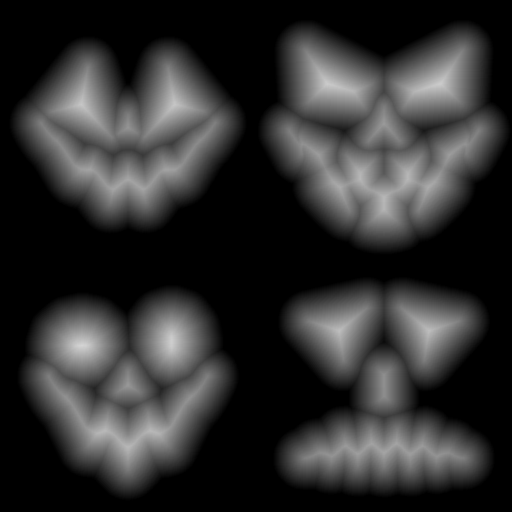
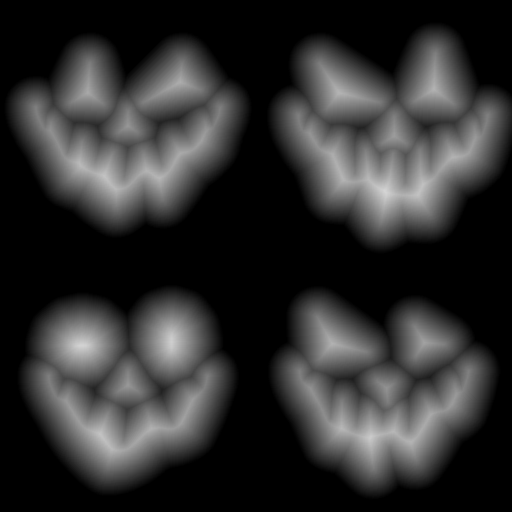
Chain 34: fall's base faces made, notes of 16:27 to 16:53 UTC
The whole vitest read green (954 passed, 4 skipped), M3 fall-rest 0.9354 at review, fall's two draft stills changed and six equal.

diff --git a/kit/PROGRESS.md b/kit/PROGRESS.md
@@ -2913,3 +2913,7 @@ One entry per task: when it started, what it did, where it stopped.
 - 16:14 UTC. Decisions, open items and rulings since the note of 15:23 UTC. Decision 196: for the tree's passes the miniature's part of M3 summer-rest has a floor of 0.97 (told to its builder before this note). Decision 198: a fall under 0.001 in M3's total reads as equal when the part of the picture the list worked on rose by its builder's numbers. Open item 255, cause found: summer landed's pale flat patches are the storm's low glow (`STORM_BLOOM` `low`, `lowLiftMm: 58`, `src/particles/draw/looks.ts` and `cardStormGlow` in `cards.ts`, brought by `f6d10323`), a card lifted 58 mm toward the eye that so lies over the base. A mend is drawn (16 lines in `cards.ts` and `shader.ts`: the low glow takes the glass's own depth on each pixel's ray) and is to be pushed to `agent/p6-air-255` after it merges origin main; asked with it: which seasons draw the glow, all eight guards, two 3840 frames at summer's landing. A lesson with it: my order of 15:21 went to `/root/summer_air`, an earlier agent, not to the owner `/root/summer_air_p6`; the earlier agent had found the cause and drawn the mend before I saw it, so it keeps this one job, the owner named the same term from the code and takes the mend with a later merge. The rule from it: the exact agent name is checked in the list before every send. Open item 256, found by summer's air builder (film B frames 1763 to 1770, births at hd 571,10 and 439,64): the lens's place law (`src/globe/lens.ts`, `lensPlace`) puts a point the limb's ray does not reach on the outline and, once reached, well inside it, so a particle is born whole in one frame near the outline; it holds for every particle kind of every season. Its owner is named when that builder's report is in. Rulings sent between 16:08 and 16:10 UTC, each after its report was read and its pictures looked at. (1) Fall's base, the cut pumpkin faces (`agent/p6-fall-base` `f213dfce`, picture faces-15 looked at again at 16:12): merged as `3320a6b4` into chain 34; below the bar in its builder's own words (the column x 1018 to 1076 at 0.67, the grooves as broad bands and as hard stripes at 3840, the hollow paler, the third gourd, the gourds free of the twigs); next the sheaf. (2) Fall's scene, tenth list (`agent/p6-fall-scene` `8ae824e6`, pictures 42, 44 and 45 looked at 16:04; its files are `assets-src/village-fall/build.mjs`, `mini/props.ts` and `mini/village.ts` only): wall, chimney, roof and pickets each nearer the approved's form; held for one proof, the fence at 3840 in motion (film B frames 2364 to 2367, main beside the list, neighbour correlation and one-frame events), because the pickets are thin new geometry; its M3 of 0.8833 against 0.8835 reads as equal under decision 198; its triangle room at high is 13,764 by its count. (3) Spring's base, ninth list (`056ed155`, pictures 33, 34 and 36 looked at 16:04, 35 not looked at): held; the lid reads as a block with square upper corners, upright sides and a flat top where the approved's is a rounded roll of moss round the glass's foot, and by its builder's count the build stands outside the approved's outline on 52,951 px against the eighth's 31,774. Tenth list ordered as its builder proposed (seat down about 2 mm, top sloped inward, M4 of shake 2 at or over 0.8957, the outline count at or under 31,774), and the dew's one line as its own commit on its own branch with a 3840 proof. (4) The shutter (`agent/p6-fine-motion` `257600b1`): its loop pictures across the change of count (`agent/p6-shutter-looks` `0f648a3a`, frames 209 to 216) looked at about 16:10: the five steps before the change are bright with motion, the two after it faint, no step at 214 to 215; merged as `cd929b5f` into chain 34. (5) Told: fall's air (Step A merged, the miniature's part 0.935 against 0.957 is inside its floor and a fall all the same, Step B goes on), summer's stone (merged, the base's part 0.854 against 0.878 is inside its floor and a fall all the same, the next push not under 0.854, the white fleck on the amber pebble, the six lowered light-table entries), summer's miniature (two places on the bank, hd 789,890 and 658,856, grass blades one pixel wide that come and go), and the new head with chain 33's guard list to every builder at work. Chain 34 started 16:11:31 on `3320a6b4` with make base-fall, texpack fall, M3 fall, M4 and M5, the counts and the whole test run; engine `504cdd1e69169a64`; compared with chain 33's list, fall's two stills should change and the other six stay. Free disk at its start 3,181 MiB against the floor of 3,072. Open item 258: room must be made before chain 35 (the workspace's old local copies of the reference takes outside the repo hold 526 MiB and were all attached long ago; agents' attachments hold 515 MiB). Not ruled yet: summer's glass (`1424cb34`), its pictures n1 to n4 not looked at. Summer's tree (`01f1f0b9`) waits for the 3840 proof; the proof's maker wrote at 16:07 that main's six frames are drawing at 104.1 s a frame and that between the two heads the drifting lights and seed puffs stand in other places inside the glass (95,665 px on frame 1990 at hd draft), so the cottage box will not be pixel-equal across heads and both heads get their own measures. Status 218 delivered with Stills 175 to 178, late against its promised 8:55 AM MT.
 
 - 16:26 UTC. Rulings on the change's item A (its report of 16:19 and 16:20 UTC with pictures A1 to A11; A2 not looked at). By my look at 3840 at the final tier, film frames 674 to 677: the dissolve of winter's base into spring's is smooth on the flank (A1, A3), the rim is one soft arc (A4), the lamps are two soft discs (A7), the pool is smooth (A6); no beads and no bands. `agent/p6-change` `9aa6e81b` goes to main as it stands in chain 35 (order change-8, ruling 1). Logged below the bar, in its builder's words: winter's ferns near the foot torn into flat streaks at 668 (A8); summer's heap torn at 2108; the table's petals' grainy fringes at 680 (A11), to be mended with the ferns under a control at all four arrivals. Not proven: short white dashes inside the glass under the rim (A4, read by its builder as bright flakes); the foot's rope as slanted dashes at speed (A5). Three white specks on the table right of the foot, the same place in 674 to 677 (A6): its builder says what they are at its next draw of that region. **Open item 259**: spring's stipple. Single pixel dots under the lit rims of spring's two small mushrooms in every fast frame that shows spring's base (674 to 677, 1350, 1395), on main as on the change's head (A9, A10); by the builder's controls and its sample readings a very hot highlight narrower than the step between samples. Order `out/work/orders/p6/spring-glint-1.txt` to `spring_drops_mender` on `agent/p6-spring-glint`: the mend in the highlight's own term, never narrower than about 1.5 px on the screen, not in the accumulator and not by more samples; bars at 3840 at the final tier. Owed by me: the ruling on fall's bats let in from frame 2113. The air's item 255 (its mail of 16:23 UTC): mend `74813f38`, local; summer-rest stays `5705376d89d3f8bc`, summer-landed moves to `6754221096e57872`; the patches gone in its two 3840 frames (1440, 1441) by its own look, not seen by me; its push and report follow its whole test run. 15 agents at work before the two sends, 16 with the order (the limit).
+
+- 16:53 UTC. Rulings 16:27 to 16:31 UTC, written during chain 34's test run and logged after it. Decision 199: fall's bats from film frame 2113 are the engine's law, not the change's lines: each particle turns into the new season's kind between 0.5 and 0.86 of the swap window, fading over 0.14 to either side (`src/particles/engine/engine.ts`, `SWAP_FROM`, `SWAP_TO`, `SWAP_HALF`); nothing changes there; whether the first bats read wrong over summer's miniature is judged from a sheet of frames 2111 to 2116 asked of the change's builder with its heap proof. The tree's 3840 motion proof (motion_renderer_e, 16:28 UTC, `agent/p6-tree-proof-looks` `c1e61e82`, six frames 1988 to 1993 at the final tier, main `6d459061` beside `agent/p6-summer-tree` `01f1f0b9`), read and its three pictures looked at 16:29 to 16:31: one frame events in the crown's box (a) 0.050 percent against main's 0.091, steps 3.235 against 3.288; in the pad's box (b) 0.062 against 0.019 and steps 3.711 against 2.771, over main's, lying by the renderer's counts on the seed puffs in front of the pad (lit edge pixels with events 2 px on each head over four frames; crown pixels with events 52 to 68 a frame against main's 66 to 89); the control box (c) not equal, 0.048 against 0.042, because the tree's solid is part of the particles' collider (`src/seasons/summer/miniature.ts`, read in source by the renderer, not tested by a run), so my bar of an equal control box could not be met and was wrong. By my look the bead band stands still in frames 1990 and 1991. `01f1f0b9` goes to main in chain 35 with make tree-summer and texpack summer; both summer guards and M4 and M5 of shakes 2 and 3 will read new with it. Summer's glass `1424cb34` (the work in `fab7d881`, `glass.ts` alone): pictures k2-1 to k2-4 and n1 to n4 looked at 16:28 to 16:30; the flame at rest reads as separate dashes with a blunt straight foot against the approved's one body with a fibrous fringe and a soft foot, by my eye nearer the approved than main's flat wedge; the glint and the upper bands read right in form; its numbers asked again (they were not in my notes), the lean is to merge if they hold. 15 agents at work at 16:31. Status 219 was delivered about 16:32 UTC. Correction, 16:35 UTC: summer's glass `1424cb34` had been ruled by me at 15:59 (held for the flame's square foot at 3840, stronger rays ordered for the star at 3840), which my notes had lost; my 16:31 message to its builder contradicted that on the star and on the merge. Told its builder at 16:35 that the 15:59 ruling stands whole and that the mistake is mine. Its builder is on that pass (local `50f6d862`, `1424cb34` merged with `0fda3658`, unpushed); its picture p1 looked at: the working tree's flame is one body now; what remains in form is the even comb of its inner edge, its narrow body and the brown patch under the foot. On `1424cb34` by its builder: M3 summer-rest 0.8775 at review on the old base (base 0.878, miniature 1.007), the whole vitest 948 passed and 8 skipped, summer's two guards moved by the glass, M4 and M5 not read. The rule from it: a ruling sent is written into `out/work/notes/next.md` in the same step as the send. The air's item 255, report of 16:37 UTC read: pushed `agent/p6-air-255` `74813f38` (one commit on `0fda3658`, 16 lines added in `src/particles/draw/cards.ts` and `shader.ts`: the low glow's depth is the glass's own on each pixel's ray, none past the ball's outline), looks `agent/p6-air-255-looks` `33ce6fb3`, not yet fetched. By its builder: summer alone draws the glow; seven guards equal, summer-landed moves from `c449594e8801723c` to `6754221096e57872`; the finder's boxes at hero hd landed draft, left and right: main 152,127,97 and 84,88,85, the mend 135,109,81 and 56,64,69, without the air 133,107,80 and 53,62,67; 13,054 pixels change, all in x 757 to 1200, y 700 to 839; film B frames 1440 and 1441 at 3840 draft, the patches gone in both by its look; M4 and M5 at draft: shake 2 0.8957 and 1, shake 3 0.9567 and 0.9845; tsc clean, the whole vitest 948 passed and 8 skipped in 289 s, strict passes on summer-rest and summer-shake. What it names plainly: (a) the mend writes the depth in the particles' fragment program, so on a graphics card every particle loses the early depth reject, a cost it cannot measure under the software renderer; (b) a few dark tufts at the ground's front edge (hd x 916 to 1000, y 700 to 709, 230 pixels) are now lit like their neighbours; (c) the base's upper face now takes no light from the ball, so the approved's pale there is the base's to carry; (d) not from the mend: at the close camera a white round patch with a hard edge stands behind the lamp post (about x 560 to 830, y 250 to 420 of 1200), in main and the mend alike. Ruled 16:37: `74813f38` goes into chain 35 once its four pictures are looked at; on (a) asked whether the glow can have its own program variant so that it alone writes depth (a second commit with the proof that the picture does not move), else the split is opened as its own item; (b) ruled when seen. **Open item 260**: the white round patch behind the lamp post at summer's close camera, owner to be named. Spring's base, tenth list, its notice of 16:36 UTC: two of my bars cannot both hold (the count outside the outline at or under 31,774 asks for the eighth's seat line, M4 of shake 2 at or over 0.8957 with the pale band covered asks for a higher one), because the approved's dark band at y 715 to 739 is the miniature's own mossy bank seen through the glass and ours there is a plain wall; first build, not pushed: seat line y 718, base's part 0.911, count 38,597 (12,235 above the traced top line, 25,822 under the table line). Ruled 16:37: M4 and the covered band rank over the count, the count is reported as it stands, my count bar is logged as one that could not be met with the miniature as it is; the builder is asked to name the part that draws the plain wall (I take it for the village's skirt), which would be its next job. The air's answer on (a), read 16:40 UTC: the low glow is one card among all (one of the seed particles in the glow state, in the same buffers, the same program and the same one draw as every other particle, `points.ts`), and its place in the buffer order is part of the picture, so a split that keeps summer-landed to the bit takes three draws in order in both paths; its estimate one and a half to two hours. Ruled 16:40: `74813f38` is merged as it is in chain 35. **Open item 261**: since that mend the particles' fragment program writes depth for every particle, so on a graphics card they lose the early depth reject; by its builder's reasoning, not measured, only the fragments behind the miniature or the base were saved by it before. The split (the glow alone writes depth) or a measure on a real graphics card goes to the owner of the air's files. Open item 260, the air's line of 16:46 by its own clock: the air draws the patch (gone with the air off at the same camera and tier); its hard edge is the tree's trunk cutting a wide flat glow whose card stands behind the trunk; thought by it and not proven, the storm's pool (`STORM_BLOOM`'s pool, `points.ts` line 347 on, drawn by `cardStormGlow`). Goes to the owner of the air's files with item 261.
+
+- 16:53 UTC. Chain 34 (16:11:31 to 16:53:03 UTC) on `3320a6b4`: the shutter's fine motion (`agent/p6-fine-motion` `257600b1`, merged as `cd929b5f`) and fall's base with its three cut faces (`agent/p6-fall-base` `f213dfce`, merged as `3320a6b4`); make base-fall (77,762 triangles, 2.86 MB) and texpack fall. tsc clean, build's engine `504cdd1e69169a64`. M3 fall-rest at review: "pass M3 fall-rest: 0.9354 (threshold 0.75, detail.minSharpnessRatio)", base 0.970 over 174,443 pixels, miniature 0.935 over 105,939 pixels (chain 33: 0.8835, base 0.883, miniature 0.935). M4 of shakes 1 to 4: 0.9694, 0.8957, 0.9567, 0.9597; M5: 0.993, 1, 0.9845, 0.9997; each as in chain 33. Draft stills: fall-rest `888ba28b27829fbf` and fall-landed `9aed69ac91ae3842` changed, the other six equal to chain 33's list (winter-rest `0cab5cd137ba09d9`, winter-landed `a7ab4af383606ed0`, spring-rest `78ee21faa1da0061`, spring-landed `c9d7c918a050607a`, summer-rest `5705376d89d3f8bc`, summer-landed `c449594e8801723c`). Triangles at high: winter 1,490,555, spring 1,496,825, summer 1,697,230, fall 1,759,623 of 1,800,000. The whole vitest: 68 files passed, 1 skipped; 954 tests passed, 4 skipped; 1,348 s; no test timed out, so open item 257 (the 12 workers test, 536 s in chain 33) did not show again. Looked at 16:53 UTC: fall at rest (file time 16:27:37) and landed (16:28:29): the three cut faces glow on the base among the vines; no fault seen at hd draft. Checks read, pushed with this note. Free disk 3,470 MiB.
